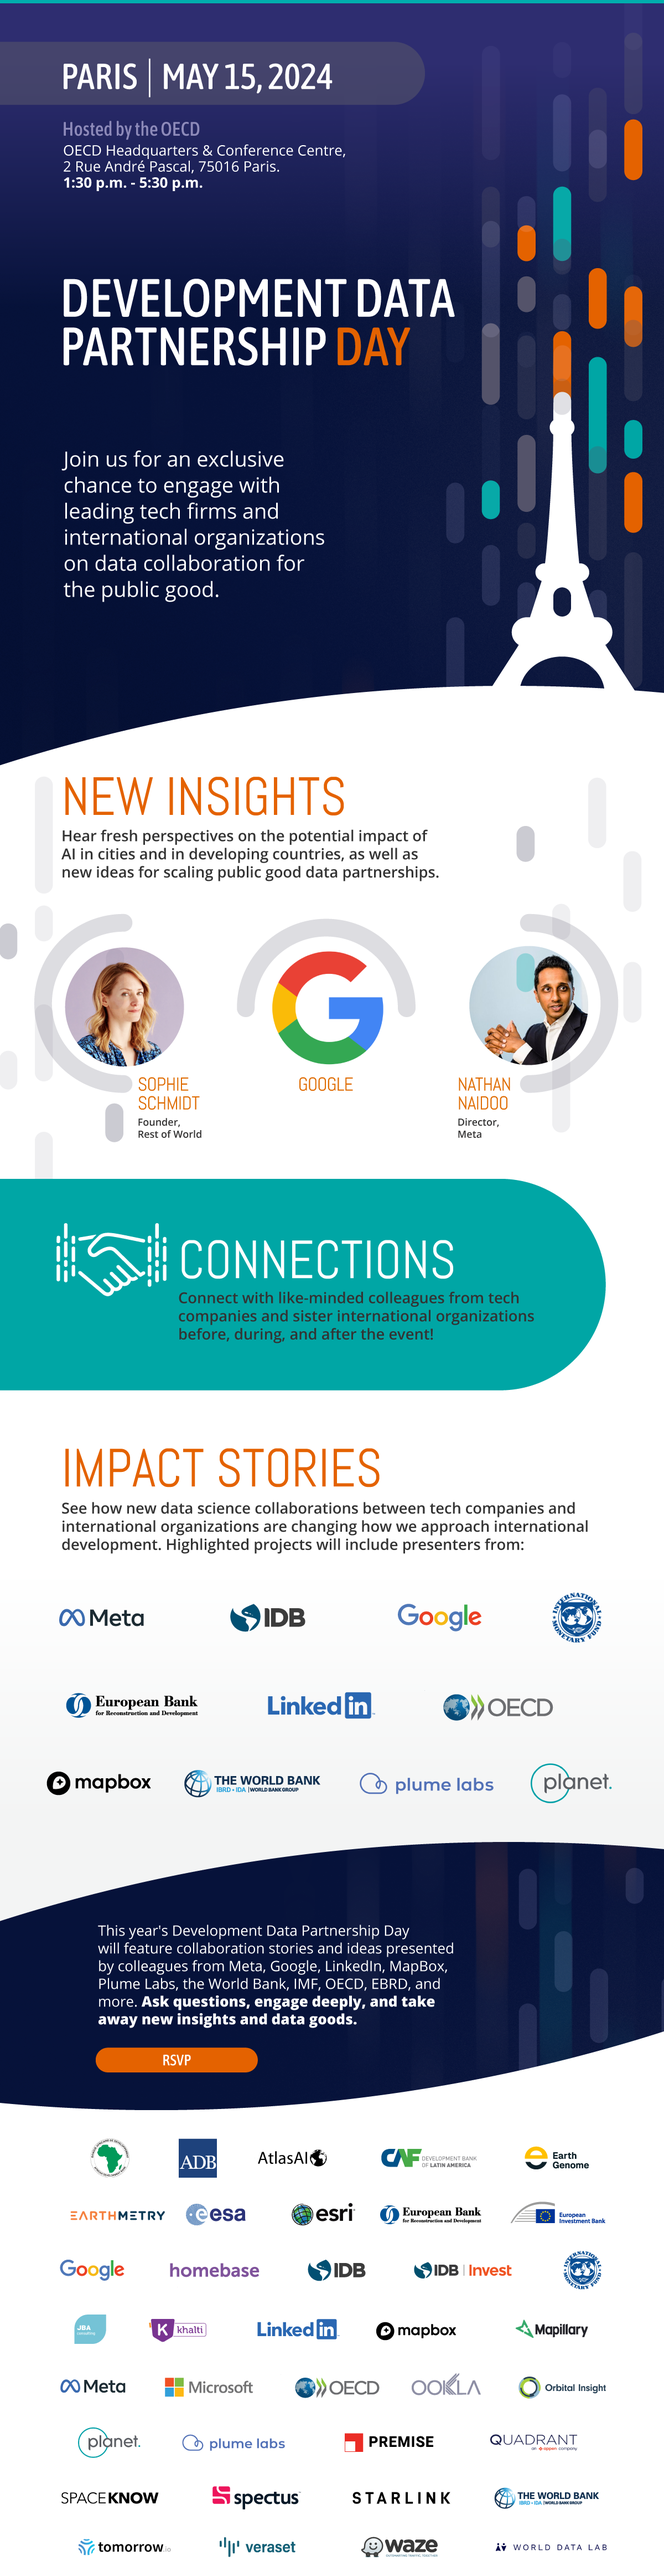
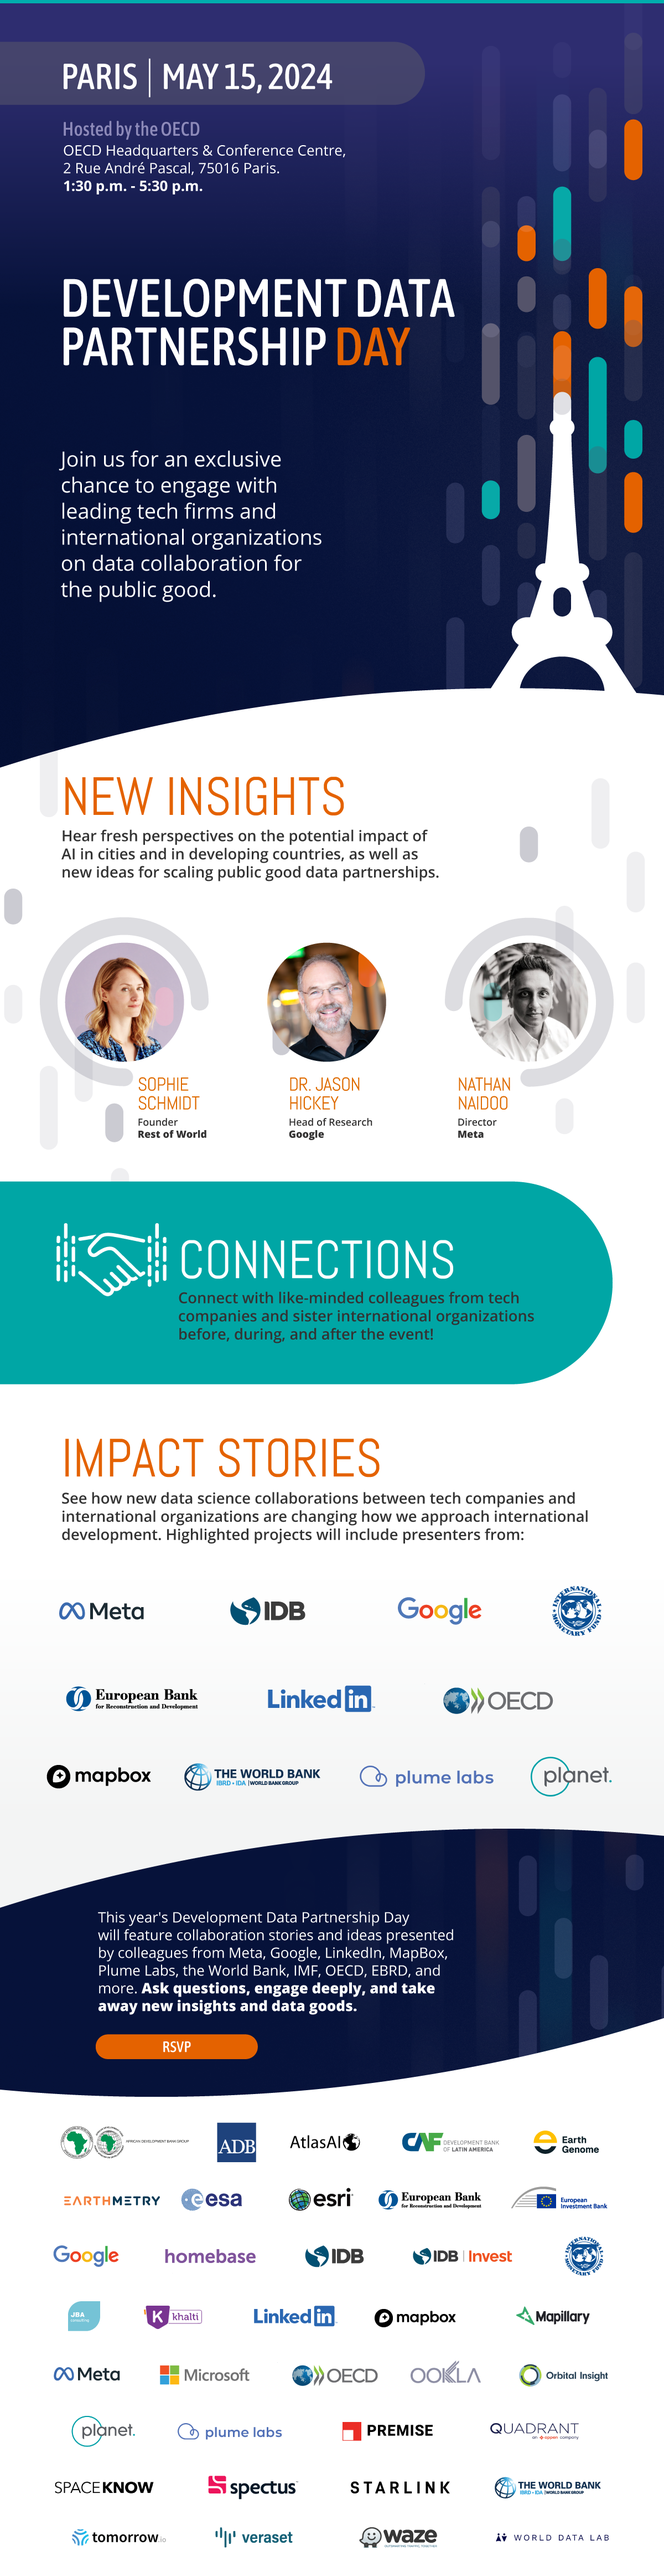
update
update

diff --git a/content/updates/partnership-day-2024/index.md b/content/updates/partnership-day-2024/index.md
@@ -6,11 +6,12 @@ categories = ["Announcement"]
 dev_parter = ["International Monetary Fund", "World Bank", "Inter-American Development Bank", "UNDP" , "OECD" , "CAF" , "EBRD", "Asian Development Bank" ]
 +++
 
-**Join us for the Development Data Partnership Day on Wednesday, May 15, 2023, from 1:30 p.m. to 5:30 p.m. in person at the [OECD Headquarters & Conference Centre](https://www.oecd.org/conference-centre/access/) in Paris, France.**
+**Join us for the Development Data Partnership Day on Wednesday, May 15, 2024, from 1:30 p.m. to 5:30 p.m. CET at the [OECD Headquarters & Conference Centre](https://www.oecd.org/conference-centre/access/) in Paris, France.**
 
-The Partnership Day is an exclusive event where tech leaders such as Nathan Naido, **Meta's** Director of Public Policy, and Dr. Jason Hickey, **Google's** Head of Research, will share insights on how private-sector collaborations and AI can help tackle development challenges. Additionally, Sophie Schmidt, Founder and Publisher of **Rest of World** will offer a unique perspective on how AI impacts developing countries.
+Partnership Day is a unique event where tech companies and international organizations meet to share insights and field stories about their collaborations for public good. At this year's Partnership Day, we will hear from Sophie Schmidt, Founder and Publisher of **"Rest of World,"** to learn how AI trends are being felt on the ground in developing countries, as well as Dr. Jason Hickey, **Google'** Head of Research, who will introduce AI-supported civic tools for decision making. We will also meet Nathan Naido, **Meta's** Director of Public Policy, who will share Meta's current and future plans for translating company data into meaningful social and economic insights. 
 
-Hear how project collaborations between private companies and international organizations, such as Meta, LinkedIn, Plume Labs, JBA, Planet, EBRD, OECD, IMF, IDB, and the World Bank, reshape how we address international development. 
+Partnership Day will also feature our favorite tradition - relay lightning talks - where duos from companies and international organizations will proudly present the results of their collaborations. This year's relay talks will feature participants from Meta, LinkedIn, Plume Labs, JBA, EBRD, OECD, IMF, IDB, and the World Bank, and others.
+
 
 <p style="text-align:center">
     <button type="button" class="btn btn-outline-info"><a href="https://forms.office.com.mcas.ms/pages/responsepage.aspx?id=wP6iMWsmZ0y1bieW2PWcNnFCsHhxqiNJllqArA6vm_1UME01STJNWlFIV1U3TVcwNzRVRFpQVzY4Qy4u"> Registration
@@ -21,5 +22,13 @@ Hear how project collaborations between private companies and international orga
 </p>
 
 ![](DDP-2024_web.png)
+
+<p style="text-align:center">
+    <button type="button" class="btn btn-outline-info"><a href="https://forms.office.com.mcas.ms/pages/responsepage.aspx?id=wP6iMWsmZ0y1bieW2PWcNnFCsHhxqiNJllqArA6vm_1UME01STJNWlFIV1U3TVcwNzRVRFpQVzY4Qy4u"> Registration
+    </a>
+    </button>
+    &nbsp;
+    
+</p>
 
 The Strategic Advisory Group Meeting 2024, where representatives from member international organizations and data partners meet to discuss the next steps for the Partnership, will take place on Thrusday, May 16 from 2:30 p.m. - 6:30 p.m.
